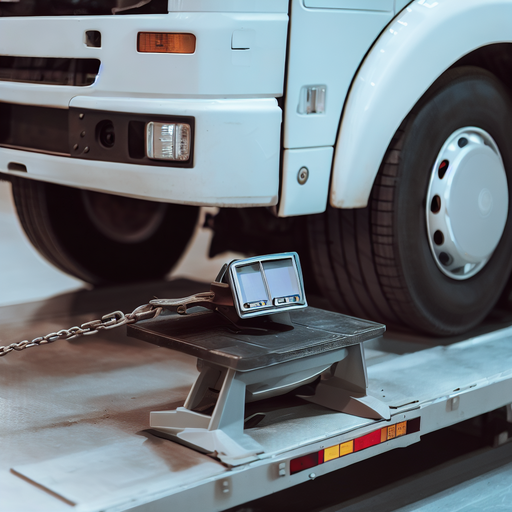
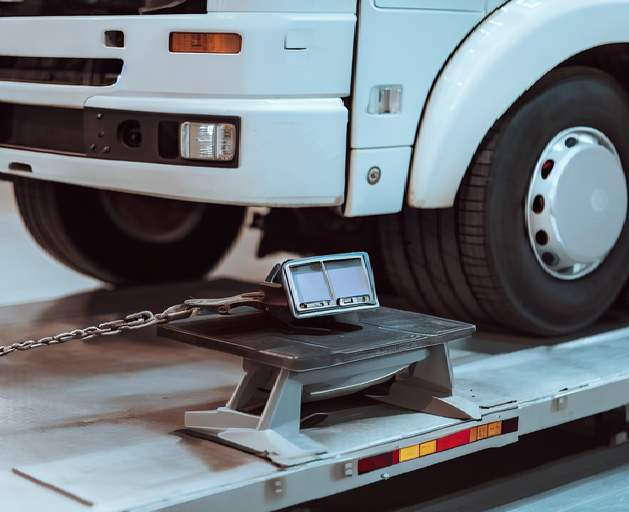
update the experiences section. Fix responsible design

diff --git a/_pages/experiences-en.html b/_pages/experiences-en.html
@@ -37,7 +37,7 @@
           </div>
           <div class="card-body text-justify">
             <div class="container">
-              <img src="{{ '/assets/images/experience/weighing_a_truck.png' | relative_url }}" class="img-background" />
+              <img src="{{ '/assets/images/experience/csm-bascula.jpg' | relative_url }}" class="img-background" />
               <div class="content">
                 <p class="text-left">
                   <strong> Scale management </strong> </br>
@@ -75,7 +75,7 @@
 
             <div class="container row">
               <!-- <i class="fa-li fa fa-check ml-4"></i> -->
-              <p class="mt-1">I've worked with Siesa ERP and CRM, SAP, Databases and API integrations </p>
+              <p class="mt-1">I've worked with Siesa ERP and CRM, SAP, Databases, SQL jobs and API integrations </p>
             </div>
           </div>
         </div>

diff --git a/_sass/styles/experiences.sass b/_sass/styles/experiences.sass
@@ -99,4 +99,8 @@
     border: 1px solid
     .visual-experience
 
-  
+  @media (min-width: 705px)
+    .container
+      margin: 0 auto
+      .content
+        left: 15px

diff --git a/changelog.md b/changelog.md
@@ -1,5 +1,11 @@
 # Changelog
 
+### [29/04/2023] - Updating from 27 and 28
+
+- Updated the "I Can Do" section
+- Updated the "Experiences" section
+- 
+
 ### [26/04/2023] - Text only in English
 
 - Improve the experiences section in english part I.
